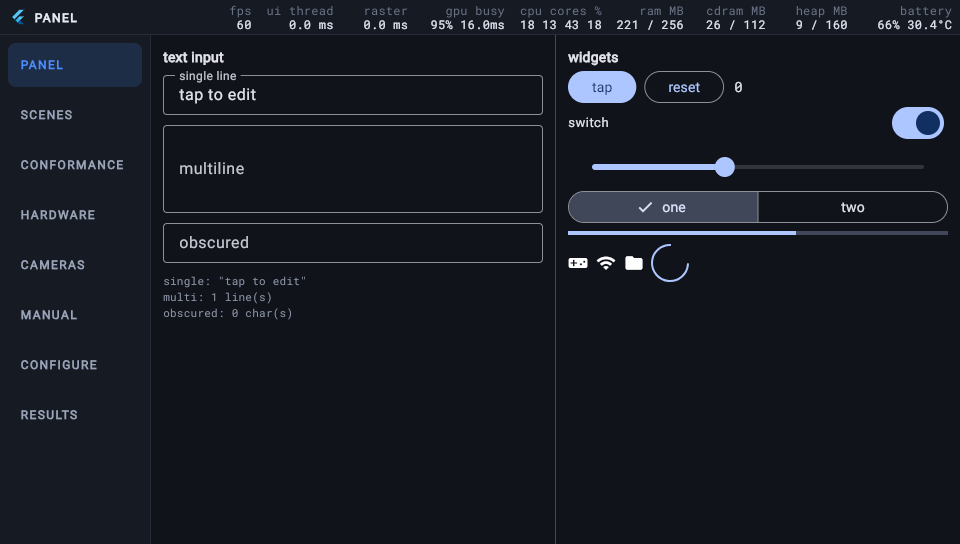
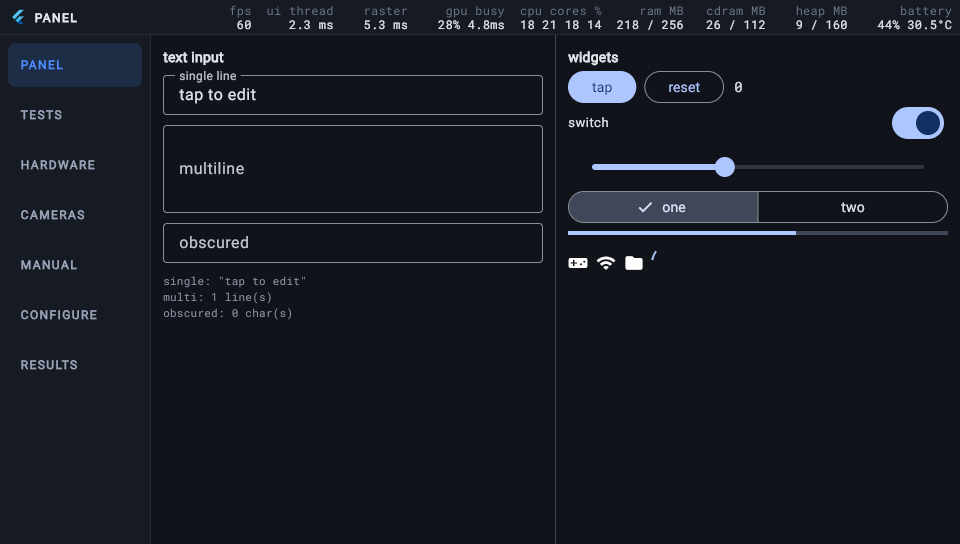
profile: the receiver is the bridge

diff --git a/profile/README.md b/profile/README.md
@@ -8,8 +8,8 @@ change.
 |---|---|
 | ![Wonderous on a PS Vita, with the debug strip across the top](images/wonderous.png) | ![LocalSend on a PS Vita](images/localsend.png) |
 | **Wonderous**, an app we did not write, at 60 fps. The debug strip across the top shows the live numbers. | **LocalSend**, file transfer over the local network. We did not write it either. |
-| ![The gallery's widget panel on a PS Vita](images/gallery.png) | ![The receiver's deploy log on a PS Vita](images/receiver.png) |
-| **The gallery**: widgets, benchmark scenes and hardware checks. | **The receiver** installs your app over Wi-Fi and keeps its logs. |
+| ![The gallery's widget panel on a PS Vita](images/gallery.png) | ![The bridge's list of installed apps on a PS Vita](images/bridge.png) |
+| **The gallery**: widgets, tests and hardware checks. | **The bridge** installs your app over Wi-Fi and keeps its logs. |
 
 ## Quick start
 
@@ -26,11 +26,11 @@ flutter-vita doctor
 flutter-vita run samples/gallery
 ```
 
-Before the first run, install the receiver on the console. You do this one
+Before the first run, install the bridge on the console. You do this one
 time, with VitaShell. The full steps:
 
 1. [Install the toolchain](https://github.com/flutter-vita/flutter-vita/blob/master/docs/install-macos.md) (macOS) or [on Linux](https://github.com/flutter-vita/flutter-vita/blob/master/docs/install-linux.md).
-2. [Set up the console](https://github.com/flutter-vita/flutter-vita/blob/master/docs/configure-console.md): homebrew, the shader compiler, the receiver.
+2. [Set up the console](https://github.com/flutter-vita/flutter-vita/blob/master/docs/configure-console.md): homebrew, the shader compiler, the bridge.
 3. [Get started](https://github.com/flutter-vita/flutter-vita/blob/master/docs/get-started.md): the gallery, then your own app.
 
 ## How it works
@@ -39,14 +39,14 @@ time, with VitaShell. The full steps:
 
 On your Mac, the build compiles your app and the Flutter framework to ARMv7
 machine code. It links that code with the prebuilt engine, the embedder and
-the GLES2 layer into one `.vpk`. The receiver on the console installs the
+the GLES2 layer into one `.vpk`. The bridge on the console installs the
 `.vpk` and starts it.
 
 ## Repositories
 
 | Repository | What it is | Why it exists |
 |---|---|---|
-| [flutter-vita](https://github.com/flutter-vita/flutter-vita) | The tool: `flutter-vita build`, `install`, `run`, `logs`. Also the receiver, the GLES2 layer, the Vita implementations of twelve plugins, the samples and the docs. **Start here.** | This is the part you use. You build, install, run and debug your app from here. |
+| [flutter-vita](https://github.com/flutter-vita/flutter-vita) | The tool: `flutter-vita build`, `install`, `run`, `logs`. Also the bridge, the GLES2 layer, the Vita implementations of twelve plugins, the samples and the docs. **Start here.** | This is the part you use. You build, install, run and debug your app from here. |
 | [flutter](https://github.com/flutter-vita/flutter) | Our fork of Flutter, branch `vita-3.44.8`. Its releases carry the prebuilt engine. | The engine does not run on the console without these changes. The prebuilt engine saves you a 12 GB checkout and a long build. |
 | [flutter-vita-embedder](https://github.com/flutter-vita/flutter-vita-embedder) | The `main()` of every app. It starts the engine, reads touch, buttons and the keyboard, puts each frame on the screen, and runs the dev server and the debug strip. | Each Flutter platform has an embedder, and this is the one for the Vita. Every app build compiles it from source, so a fix in it needs no new engine. |
 | [flutter-vita-packages](https://github.com/flutter-vita/flutter-vita-packages) | Our pub packages: `flutter_vita`, `vita_debug_strip`, `vita_file_browser`. | Your app adds them to `pubspec.yaml` like any other package. `flutter_vita` sets up the app for the console with one call in `main()`. |
